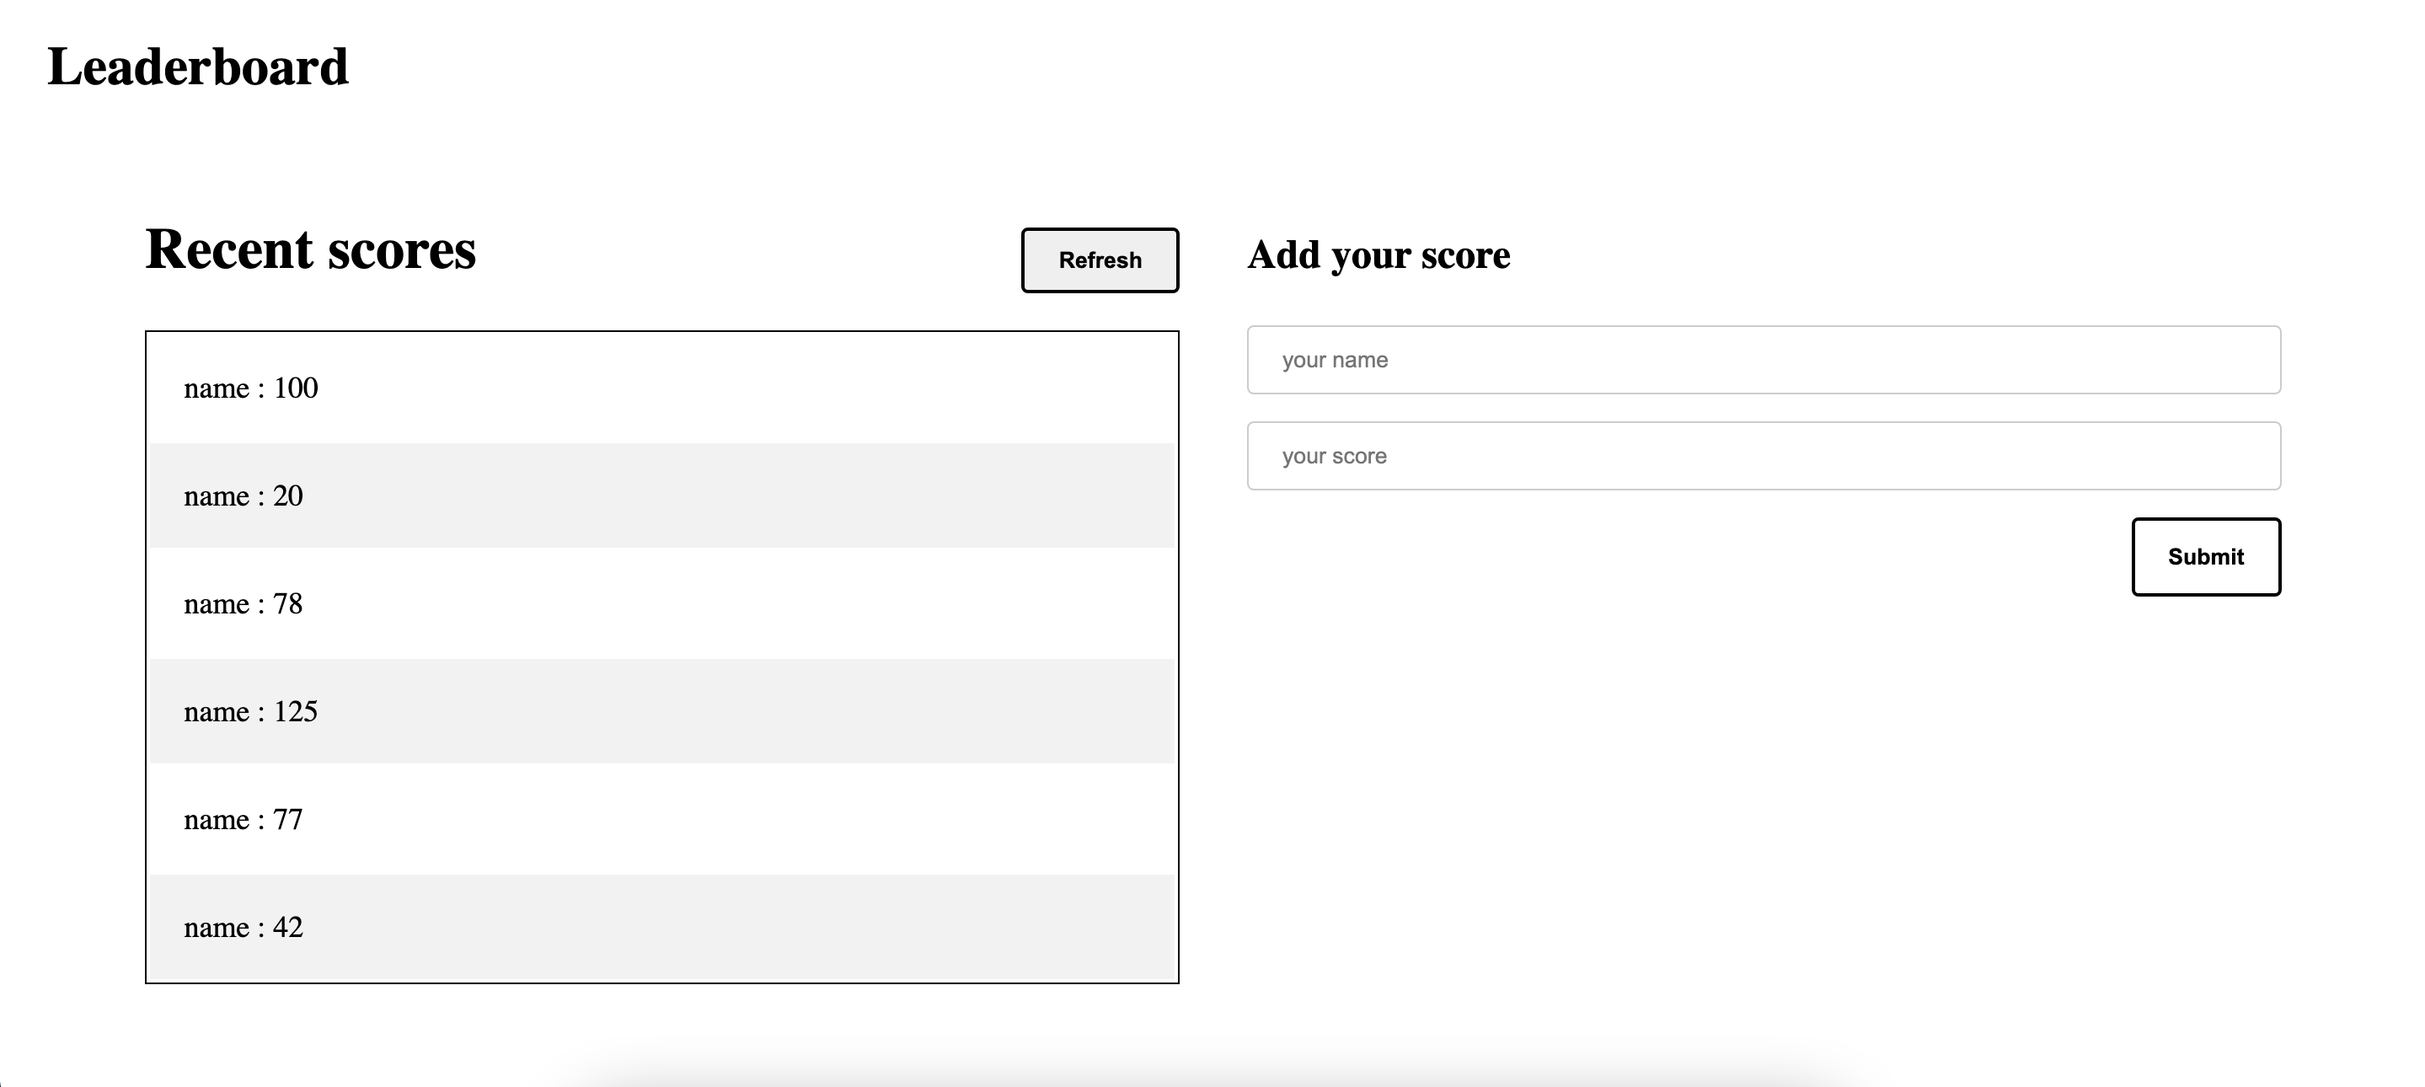
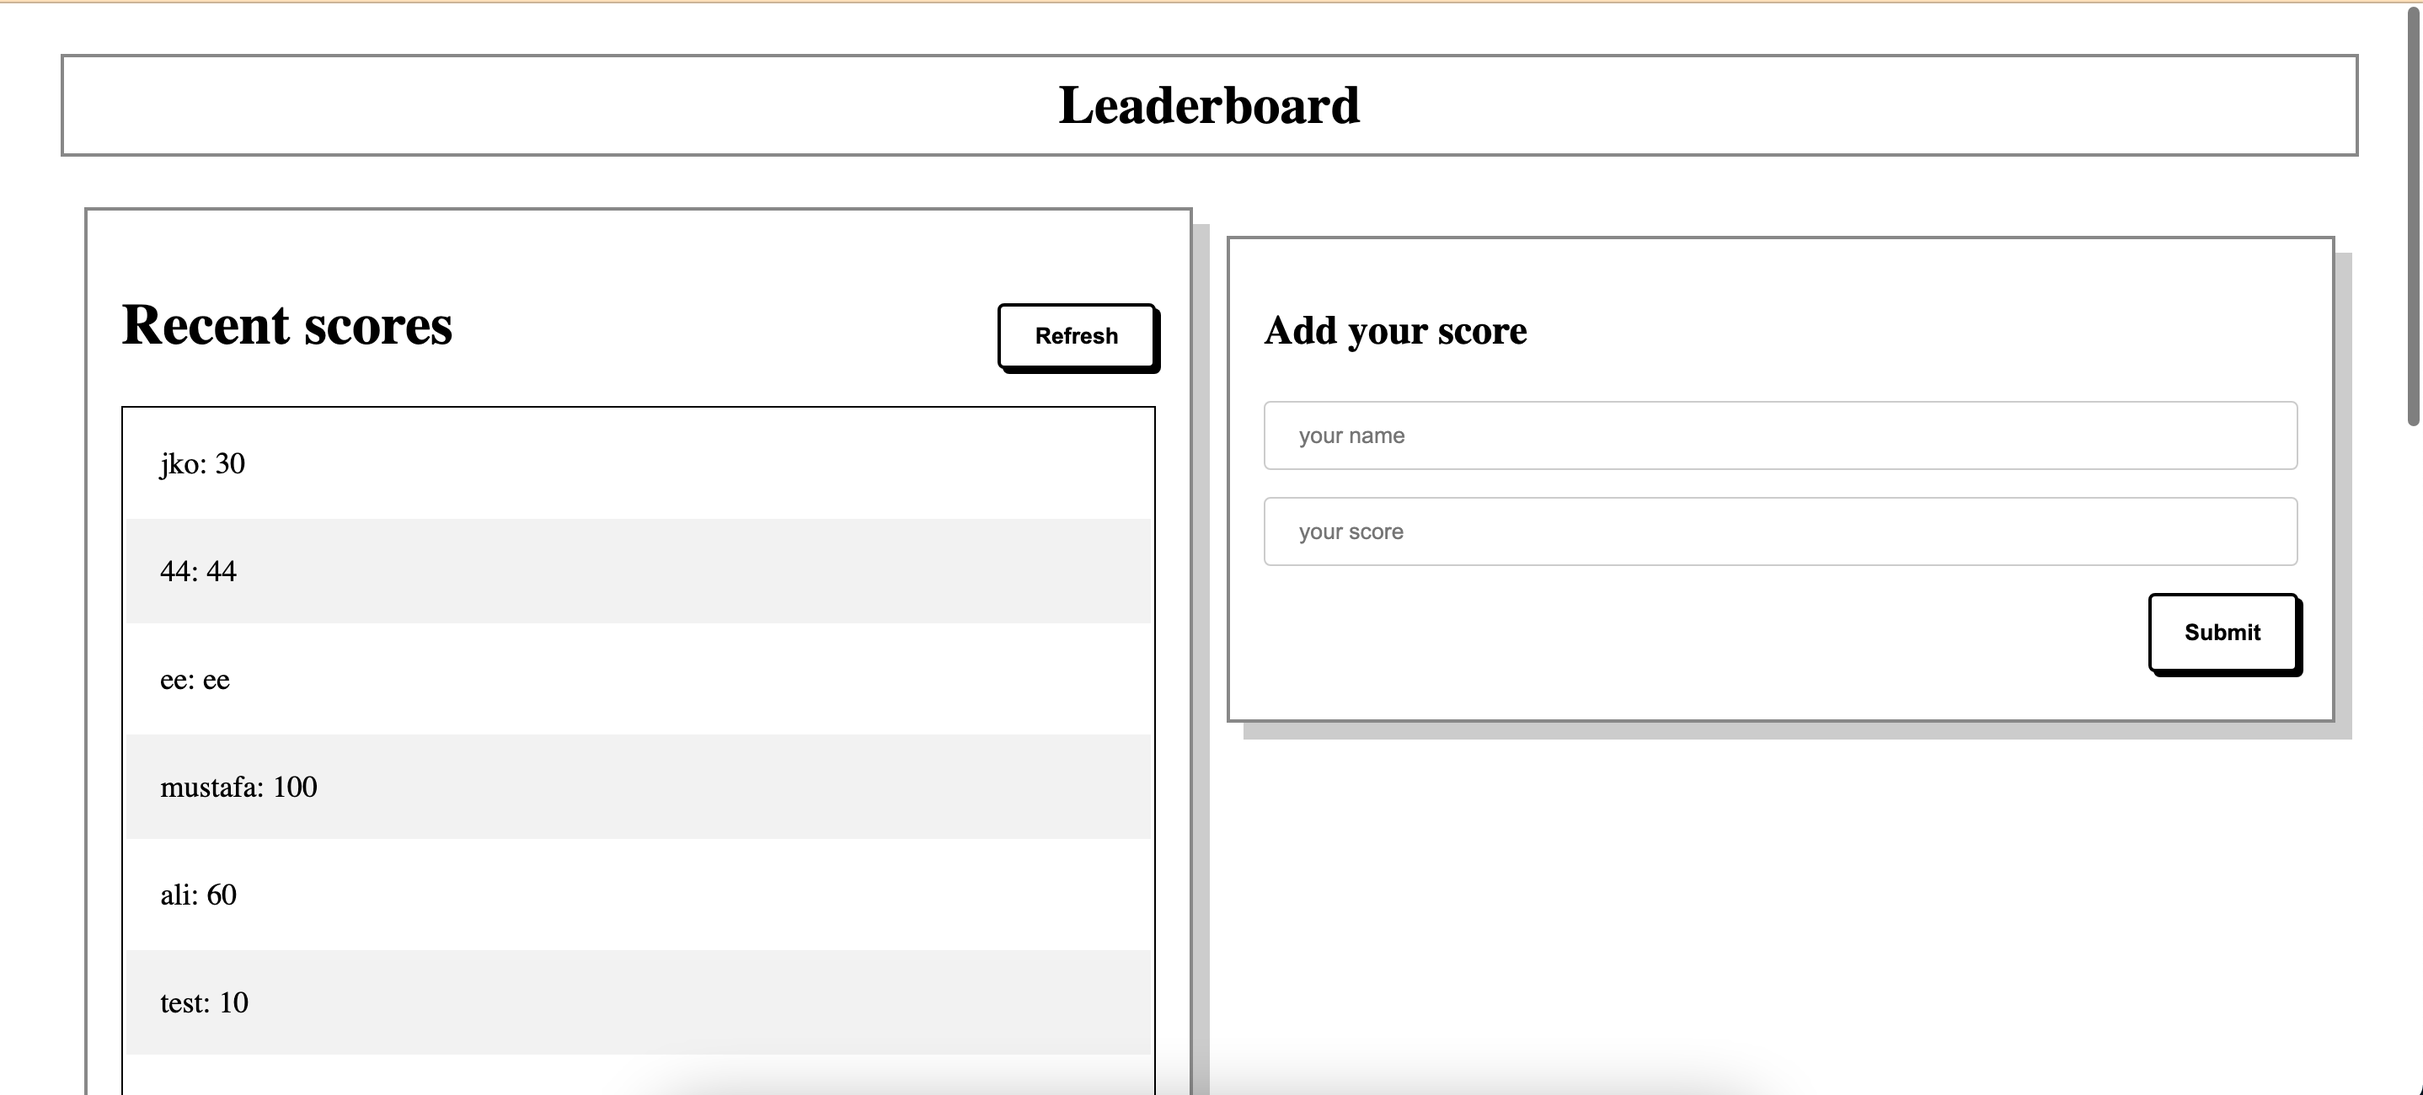
Style leader board

diff --git a/dist/main.js b/dist/main.js
@@ -16,7 +16,7 @@
   \**************************************************************/
 /***/ ((module, __webpack_exports__, __webpack_require__) => {
 
-eval("__webpack_require__.r(__webpack_exports__);\n/* harmony export */ __webpack_require__.d(__webpack_exports__, {\n/* harmony export */   \"default\": () => (__WEBPACK_DEFAULT_EXPORT__)\n/* harmony export */ });\n/* harmony import */ var _node_modules_css_loader_dist_runtime_noSourceMaps_js__WEBPACK_IMPORTED_MODULE_0__ = __webpack_require__(/*! ../node_modules/css-loader/dist/runtime/noSourceMaps.js */ \"./node_modules/css-loader/dist/runtime/noSourceMaps.js\");\n/* harmony import */ var _node_modules_css_loader_dist_runtime_noSourceMaps_js__WEBPACK_IMPORTED_MODULE_0___default = /*#__PURE__*/__webpack_require__.n(_node_modules_css_loader_dist_runtime_noSourceMaps_js__WEBPACK_IMPORTED_MODULE_0__);\n/* harmony import */ var _node_modules_css_loader_dist_runtime_api_js__WEBPACK_IMPORTED_MODULE_1__ = __webpack_require__(/*! ../node_modules/css-loader/dist/runtime/api.js */ \"./node_modules/css-loader/dist/runtime/api.js\");\n/* harmony import */ var _node_modules_css_loader_dist_runtime_api_js__WEBPACK_IMPORTED_MODULE_1___default = /*#__PURE__*/__webpack_require__.n(_node_modules_css_loader_dist_runtime_api_js__WEBPACK_IMPORTED_MODULE_1__);\n// Imports\n\n\nvar ___CSS_LOADER_EXPORT___ = _node_modules_css_loader_dist_runtime_api_js__WEBPACK_IMPORTED_MODULE_1___default()((_node_modules_css_loader_dist_runtime_noSourceMaps_js__WEBPACK_IMPORTED_MODULE_0___default()));\n// Module\n___CSS_LOADER_EXPORT___.push([module.id, \"\\n.header {\\n  margin: 20px;\\n}\\n\\n.body-wrapper {\\n  display: flex;\\n  align-items: baseline;\\n  justify-content: center;\\n  margin: 0 30px;\\n}\\n\\n.score {\\n  width: 45%;\\n  margin: 20px;\\n}\\n\\n.refresh {\\n  display: flex;\\n  justify-content: space-between;\\n  align-items: baseline;\\n}\\n\\n.refresh h2 {\\n  font-size: 34px;\\n  font-weight: bold;\\n}\\n\\n.refresh button {\\n  padding: 10px 20px;\\n  font-weight: bold;\\n  border: 2px solid black;\\n  border-radius: 4px;\\n  cursor: pointer;\\n}\\n\\ntable {\\n  border: 1px solid black;\\n  width: 100%;\\n}\\n\\ntd {\\n  padding: 20px;\\n  font-size: 18px;\\n}\\n\\ntr:nth-child(even) { background-color: #f2f2f2; }\\n\\n.form {\\n  width: 45%;\\n  margin: 20px;\\n  height: 40%;\\n  display: flex;\\n  flex-direction: column;\\n}\\n\\ninput {\\n  width: 100%;\\n  padding: 12px 20px;\\n  margin: 8px 0;\\n  display: inline-block;\\n  border: 1px solid #ccc;\\n  border-radius: 4px;\\n  box-sizing: border-box;\\n}\\n\\n.form button {\\n  background-color: #fff;\\n  padding: 14px 20px;\\n  margin: 8px 0;\\n  border: 2px solid black;\\n  border-radius: 4px;\\n  cursor: pointer;\\n  align-self: end;\\n  font-weight: bold;\\n}\\n\\n@media (max-width: 768px) {\\n  .body-wrapper {\\n    flex-direction: column;\\n  }\\n\\n  .score {\\n    width: 100%;\\n    margin: 0;\\n  }\\n\\n  .form {\\n    width: 100%;\\n    margin: 0;\\n  }\\n\\n  .refresh h2 {\\n    font-size: 24px;\\n  }\\n}\\n\", \"\"]);\n// Exports\n/* harmony default export */ const __WEBPACK_DEFAULT_EXPORT__ = (___CSS_LOADER_EXPORT___);\n\n\n//# sourceURL=webpack://leaderboard/./src/styles.css?./node_modules/css-loader/dist/cjs.js");
+eval("__webpack_require__.r(__webpack_exports__);\n/* harmony export */ __webpack_require__.d(__webpack_exports__, {\n/* harmony export */   \"default\": () => (__WEBPACK_DEFAULT_EXPORT__)\n/* harmony export */ });\n/* harmony import */ var _node_modules_css_loader_dist_runtime_noSourceMaps_js__WEBPACK_IMPORTED_MODULE_0__ = __webpack_require__(/*! ../node_modules/css-loader/dist/runtime/noSourceMaps.js */ \"./node_modules/css-loader/dist/runtime/noSourceMaps.js\");\n/* harmony import */ var _node_modules_css_loader_dist_runtime_noSourceMaps_js__WEBPACK_IMPORTED_MODULE_0___default = /*#__PURE__*/__webpack_require__.n(_node_modules_css_loader_dist_runtime_noSourceMaps_js__WEBPACK_IMPORTED_MODULE_0__);\n/* harmony import */ var _node_modules_css_loader_dist_runtime_api_js__WEBPACK_IMPORTED_MODULE_1__ = __webpack_require__(/*! ../node_modules/css-loader/dist/runtime/api.js */ \"./node_modules/css-loader/dist/runtime/api.js\");\n/* harmony import */ var _node_modules_css_loader_dist_runtime_api_js__WEBPACK_IMPORTED_MODULE_1___default = /*#__PURE__*/__webpack_require__.n(_node_modules_css_loader_dist_runtime_api_js__WEBPACK_IMPORTED_MODULE_1__);\n// Imports\n\n\nvar ___CSS_LOADER_EXPORT___ = _node_modules_css_loader_dist_runtime_api_js__WEBPACK_IMPORTED_MODULE_1___default()((_node_modules_css_loader_dist_runtime_noSourceMaps_js__WEBPACK_IMPORTED_MODULE_0___default()));\n// Module\n___CSS_LOADER_EXPORT___.push([module.id, \"\\n.header {\\n  margin: 30px;\\n}\\n\\n.header h1 {\\n  border: 2px solid #888;\\n  padding: 10px;\\n  text-align: center;\\n}\\n\\n.body-wrapper {\\n  display: flex;\\n  align-items: baseline;\\n  justify-content: center;\\n  margin: 0 30px;\\n}\\n\\n.score {\\n  width: 45%;\\n}\\n\\n.refresh {\\n  display: flex;\\n  justify-content: space-between;\\n  align-items: baseline;\\n}\\n\\n.refresh h2 {\\n  font-size: 34px;\\n  font-weight: bold;\\n}\\n\\n.refresh button {\\n  background-color: #fff;\\n  padding: 10px 20px;\\n  font-weight: bold;\\n  border: 2px solid black;\\n  border-radius: 4px;\\n  cursor: pointer;\\n  box-shadow: 3px 3px;\\n}\\n\\ntable {\\n  border: 1px solid black;\\n  width: 100%;\\n}\\n\\ntd {\\n  padding: 20px;\\n  font-size: 18px;\\n}\\n\\ntr:nth-child(even) { background-color: #f2f2f2; }\\n\\n.form {\\n  width: 45%;\\n  margin-left: 20px;\\n  display: flex;\\n  flex-direction: column;\\n}\\n\\nform {\\n  display: flex;\\n  flex-direction: column;\\n}\\n\\ninput {\\n  width: 100%;\\n  padding: 12px 20px;\\n  margin: 8px 0;\\n  display: inline-block;\\n  border: 1px solid #ccc;\\n  border-radius: 4px;\\n  box-sizing: border-box;\\n}\\n\\n.form button {\\n  background-color: #fff;\\n  padding: 14px 20px;\\n  margin: 8px 0;\\n  border: 2px solid black;\\n  border-radius: 4px;\\n  cursor: pointer;\\n  align-self: end;\\n  font-weight: bold;\\n  box-shadow: 3px 3px;\\n}\\n\\n.loading {\\n  position: absolute;\\n  top: 200px;\\n  left: 50%;\\n}\\n\\n.bodydispear {\\n  opacity: 0.1;\\n}\\n\\n.displayNone {\\n  display: none;\\n}\\n\\n.card {\\n  border: 2px solid #888;\\n  padding: 20px;\\n  box-shadow: 10px 10px #ccc;\\n}\\n\\n@media (max-width: 768px) {\\n  .body-wrapper {\\n    flex-direction: column;\\n  }\\n\\n  .score {\\n    width: 100%;\\n    margin: 0;\\n  }\\n\\n  .form {\\n    width: 100%;\\n    margin: 0;\\n  }\\n\\n  .refresh h2 {\\n    font-size: 24px;\\n  }\\n  \\n  .card {\\n    padding: 10px;\\n    margin-bottom: 30px;\\n  }\\n}\\n\", \"\"]);\n// Exports\n/* harmony default export */ const __WEBPACK_DEFAULT_EXPORT__ = (___CSS_LOADER_EXPORT___);\n\n\n//# sourceURL=webpack://leaderboard/./src/styles.css?./node_modules/css-loader/dist/cjs.js");
 
 /***/ }),
 
@@ -116,7 +116,7 @@ eval("\n\n/* istanbul ignore next  */\nfunction styleTagTransform(css, styleElem
   \**********************/
 /***/ ((__unused_webpack_module, __webpack_exports__, __webpack_require__) => {
 
-eval("__webpack_require__.r(__webpack_exports__);\n/* harmony import */ var _styles_css__WEBPACK_IMPORTED_MODULE_0__ = __webpack_require__(/*! ./styles.css */ \"./src/styles.css\");\n/* harmony import */ var _score_js__WEBPACK_IMPORTED_MODULE_1__ = __webpack_require__(/*! ./score.js */ \"./src/score.js\");\n\n\n\nconst formElement= document.querySelector('form');\n\nconst refresh = document.querySelector('.refresh');\n\nformElement.addEventListener('submit', (e) => {\n  e.preventDefault();\n  (0,_score_js__WEBPACK_IMPORTED_MODULE_1__.addScore)(e.target.name.value, e.target.score.value);\n});\n\nrefresh.addEventListener('click', () => {\n  (0,_score_js__WEBPACK_IMPORTED_MODULE_1__.getData)();\n  (0,_score_js__WEBPACK_IMPORTED_MODULE_1__.createTable)();\n});\n\nwindow.addEventListener('load', () => {\n  (0,_score_js__WEBPACK_IMPORTED_MODULE_1__.createTable)();\n});\n\n//# sourceURL=webpack://leaderboard/./src/index.js?");
+eval("__webpack_require__.r(__webpack_exports__);\n/* harmony import */ var _styles_css__WEBPACK_IMPORTED_MODULE_0__ = __webpack_require__(/*! ./styles.css */ \"./src/styles.css\");\n/* harmony import */ var _score_js__WEBPACK_IMPORTED_MODULE_1__ = __webpack_require__(/*! ./score.js */ \"./src/score.js\");\n\n\n\nconst formElement = document.querySelector('form');\n\nconst refresh = document.querySelector('.refresh');\n\nformElement.addEventListener('submit', (e) => {\n  e.preventDefault();\n  (0,_score_js__WEBPACK_IMPORTED_MODULE_1__.addScore)(e.target.name.value, e.target.score.value);\n});\n\nrefresh.addEventListener('click', () => {\n  (0,_score_js__WEBPACK_IMPORTED_MODULE_1__.getData)();\n  (0,_score_js__WEBPACK_IMPORTED_MODULE_1__.createTable)();\n});\n\nwindow.addEventListener('load', () => {\n  (0,_score_js__WEBPACK_IMPORTED_MODULE_1__.createTable)();\n});\n\n//# sourceURL=webpack://leaderboard/./src/index.js?");
 
 /***/ }),
 
@@ -126,7 +126,7 @@ eval("__webpack_require__.r(__webpack_exports__);\n/* harmony import */ var _sty
   \**********************/
 /***/ ((__unused_webpack_module, __webpack_exports__, __webpack_require__) => {
 
-eval("__webpack_require__.r(__webpack_exports__);\n/* harmony export */ __webpack_require__.d(__webpack_exports__, {\n/* harmony export */   \"addScore\": () => (/* binding */ addScore),\n/* harmony export */   \"getData\": () => (/* binding */ getData),\n/* harmony export */   \"createTable\": () => (/* binding */ createTable)\n/* harmony export */ });\nfunction createTable() {\n  const localScore = JSON.parse(localStorage.getItem('scoreArray'));\n  if (localScore !== null) {\n    localScore.forEach((element, index) => {\n      const tdElement = document.getElementById(index);\n      if (!tdElement) {\n        const table = document.querySelector('table');\n        const tr = document.createElement('tr');\n        const td = document.createElement('td');\n        td.innerHTML = `${element.user}: ${element.score}`;\n        td.id = index;\n        tr.appendChild(td);\n        table.appendChild(tr);\n      }\n    });\n  }\n}\n\nfunction saveTolocal(data) {\n  localStorage.setItem('scoreArray', JSON.stringify(data));\n  createTable();\n}\n\nasync function getData() {\n  await fetch('https://us-central1-js-capstone-backend.cloudfunctions.net/api/games/: TNMia0u1XCDnnCiYu2ki/scores')\n    .then((response) => response.json())\n    .then((data) => saveTolocal(data.result));\n}\n\nasync function addScore(user, score) {\n  const data = { user, score };\n  await fetch('https://us-central1-js-capstone-backend.cloudfunctions.net/api/games/: TNMia0u1XCDnnCiYu2ki/scores', {\n    method: 'POST',\n    headers: {\n      'Content-Type': 'application/json',\n    },\n    body: JSON.stringify(data),\n  });\n}\n\n\n\n//# sourceURL=webpack://leaderboard/./src/score.js?");
+eval("__webpack_require__.r(__webpack_exports__);\n/* harmony export */ __webpack_require__.d(__webpack_exports__, {\n/* harmony export */   \"addScore\": () => (/* binding */ addScore),\n/* harmony export */   \"getData\": () => (/* binding */ getData),\n/* harmony export */   \"createTable\": () => (/* binding */ createTable)\n/* harmony export */ });\nfunction createTable() {\n  const localScore = JSON.parse(localStorage.getItem('scoreArray'));\n  if (localScore !== null) {\n    localScore.forEach((element, index) => {\n      const tdElement = document.getElementById(index);\n      if (!tdElement) {\n        const table = document.querySelector('table');\n        const tr = document.createElement('tr');\n        const td = document.createElement('td');\n        td.innerHTML = `${element.user}: ${element.score}`;\n        td.id = index;\n        tr.appendChild(td);\n        table.appendChild(tr);\n      }\n    });\n  }\n}\n\nfunction loading() {\n  document.querySelector('body').classList.add('bodydispear');\n  document.querySelector('.loading').classList.remove('displayNone');\n}\n\nfunction finishloading() {\n  document.querySelector('body').classList.remove('bodydispear');\n  document.querySelector('.loading').classList.add('displayNone');\n}\n\nfunction saveTolocal(data) {\n  localStorage.setItem('scoreArray', JSON.stringify(data));\n  finishloading();\n  createTable();\n}\n\nasync function getData() {\n  loading();\n  await fetch('https://us-central1-js-capstone-backend.cloudfunctions.net/api/games/: TNMia0u1XCDnnCiYu2ki/scores')\n    .then((response) => response.json())\n    .then((data) => {\n      saveTolocal(data.result);\n    });\n}\n\nasync function addScore(user, score) {\n  loading();\n  const data = { user, score };\n  await fetch('https://us-central1-js-capstone-backend.cloudfunctions.net/api/games/: TNMia0u1XCDnnCiYu2ki/scores', {\n    method: 'POST',\n    headers: {\n      'Content-Type': 'application/json',\n    },\n    body: JSON.stringify(data),\n  }).then((response) => response.json())\n    .then(() => {\n      finishloading();\n    });\n}\n\n\n\n//# sourceURL=webpack://leaderboard/./src/score.js?");
 
 /***/ })
 

diff --git a/src/score.js b/src/score.js
@@ -16,18 +16,33 @@ function createTable() {
   }
 }
 
+function loading() {
+  document.querySelector('body').classList.add('bodydispear');
+  document.querySelector('.loading').classList.remove('displayNone');
+}
+
+function finishloading() {
+  document.querySelector('body').classList.remove('bodydispear');
+  document.querySelector('.loading').classList.add('displayNone');
+}
+
 function saveTolocal(data) {
   localStorage.setItem('scoreArray', JSON.stringify(data));
+  finishloading();
   createTable();
 }
 
 async function getData() {
+  loading();
   await fetch('https://us-central1-js-capstone-backend.cloudfunctions.net/api/games/: TNMia0u1XCDnnCiYu2ki/scores')
     .then((response) => response.json())
-    .then((data) => saveTolocal(data.result));
+    .then((data) => {
+      saveTolocal(data.result);
+    });
 }
 
 async function addScore(user, score) {
+  loading();
   const data = { user, score };
   await fetch('https://us-central1-js-capstone-backend.cloudfunctions.net/api/games/: TNMia0u1XCDnnCiYu2ki/scores', {
     method: 'POST',
@@ -35,7 +50,10 @@ async function addScore(user, score) {
       'Content-Type': 'application/json',
     },
     body: JSON.stringify(data),
-  });
+  }).then((response) => response.json())
+    .then(() => {
+      finishloading();
+    });
 }
 
 export { addScore, getData, createTable };

diff --git a/src/styles.css b/src/styles.css
@@ -1,6 +1,12 @@
 
 .header {
-  margin: 20px;
+  margin: 30px;
+}
+
+.header h1 {
+  border: 2px solid #888;
+  padding: 10px;
+  text-align: center;
 }
 
 .body-wrapper {
@@ -12,7 +18,6 @@
 
 .score {
   width: 45%;
-  margin: 20px;
 }
 
 .refresh {
@@ -27,11 +32,13 @@
 }
 
 .refresh button {
+  background-color: #fff;
   padding: 10px 20px;
   font-weight: bold;
   border: 2px solid black;
   border-radius: 4px;
   cursor: pointer;
+  box-shadow: 3px 3px;
 }
 
 table {
@@ -48,8 +55,12 @@ tr:nth-child(even) { background-color: #f2f2f2; }
 
 .form {
   width: 45%;
-  margin: 20px;
-  height: 40%;
+  margin-left: 20px;
+  display: flex;
+  flex-direction: column;
+}
+
+form {
   display: flex;
   flex-direction: column;
 }
@@ -73,6 +84,27 @@ input {
   cursor: pointer;
   align-self: end;
   font-weight: bold;
+  box-shadow: 3px 3px;
+}
+
+.loading {
+  position: absolute;
+  top: 200px;
+  left: 50%;
+}
+
+.bodydispear {
+  opacity: 0.1;
+}
+
+.displayNone {
+  display: none;
+}
+
+.card {
+  border: 2px solid #888;
+  padding: 20px;
+  box-shadow: 10px 10px #ccc;
 }
 
 @media (max-width: 768px) {
@@ -92,5 +124,10 @@ input {
 
   .refresh h2 {
     font-size: 24px;
+  }
+
+  .card {
+    padding: 10px;
+    margin-bottom: 30px;
   }
 }

diff --git a/dist/index.html b/dist/index.html
@@ -8,11 +8,12 @@
     <link rel="stylesheet" href="styles.css" />
 <script defer src="main.js"></script></head>
 <body>
+    <h1 class="loading displayNone">Loading.....</h1>
     <div class="header">
         <h1>Leaderboard</h1>
     </div>
     <div class="body-wrapper">
-        <div  class="score">
+        <div  class="score card">
             <div class="refresh">
                 <h2>Recent scores</h2>
                 <button class="refresh">Refresh</button>
@@ -20,11 +21,11 @@
             <table>
             </table>
         </div>
-        <div class="form">
+        <div class="form card">
             <h2>Add your score</h2>
             <form>
-                <input class="name" type="text" name="name" placeholder="your name" required/>
-                <input class="scoreValue" type="number" name="score" placeholder="your score" required/>
+                <input class="name" type="text" name="name" placeholder="your name" maxlength="10" required/>
+                <input class="scoreValue" type="number" name="score" placeholder="your score"  oninput="this.value=this.value.slice(0,3)" required/>
                 <button type="submit" class="add">Submit</button>
             </form>
         </div>

diff --git a/src/index.html b/src/index.html
@@ -8,11 +8,12 @@
     <link rel="stylesheet" href="styles.css" />
 </head>
 <body>
+    <h1 class="loading displayNone">Loading.....</h1>
     <div class="header">
         <h1>Leaderboard</h1>
     </div>
     <div class="body-wrapper">
-        <div  class="score">
+        <div  class="score card">
             <div class="refresh">
                 <h2>Recent scores</h2>
                 <button class="refresh">Refresh</button>
@@ -20,11 +21,11 @@
             <table>
             </table>
         </div>
-        <div class="form">
+        <div class="form card">
             <h2>Add your score</h2>
             <form>
-                <input class="name" type="text" name="name" placeholder="your name" required/>
-                <input class="scoreValue" type="number" name="score" placeholder="your score" required/>
+                <input class="name" type="text" name="name" placeholder="your name" maxlength="10" required/>
+                <input class="scoreValue" type="number" name="score" placeholder="your score"  oninput="this.value=this.value.slice(0,3)" required/>
                 <button type="submit" class="add">Submit</button>
             </form>
         </div>

diff --git a/README.md b/README.md
@@ -4,6 +4,7 @@
 Leaderboard
 > This project for Leader board.
 
+![screenshot](./app_screenshotMobile.png)
 ![screenshot](./app_screenshot.png)
 
 
